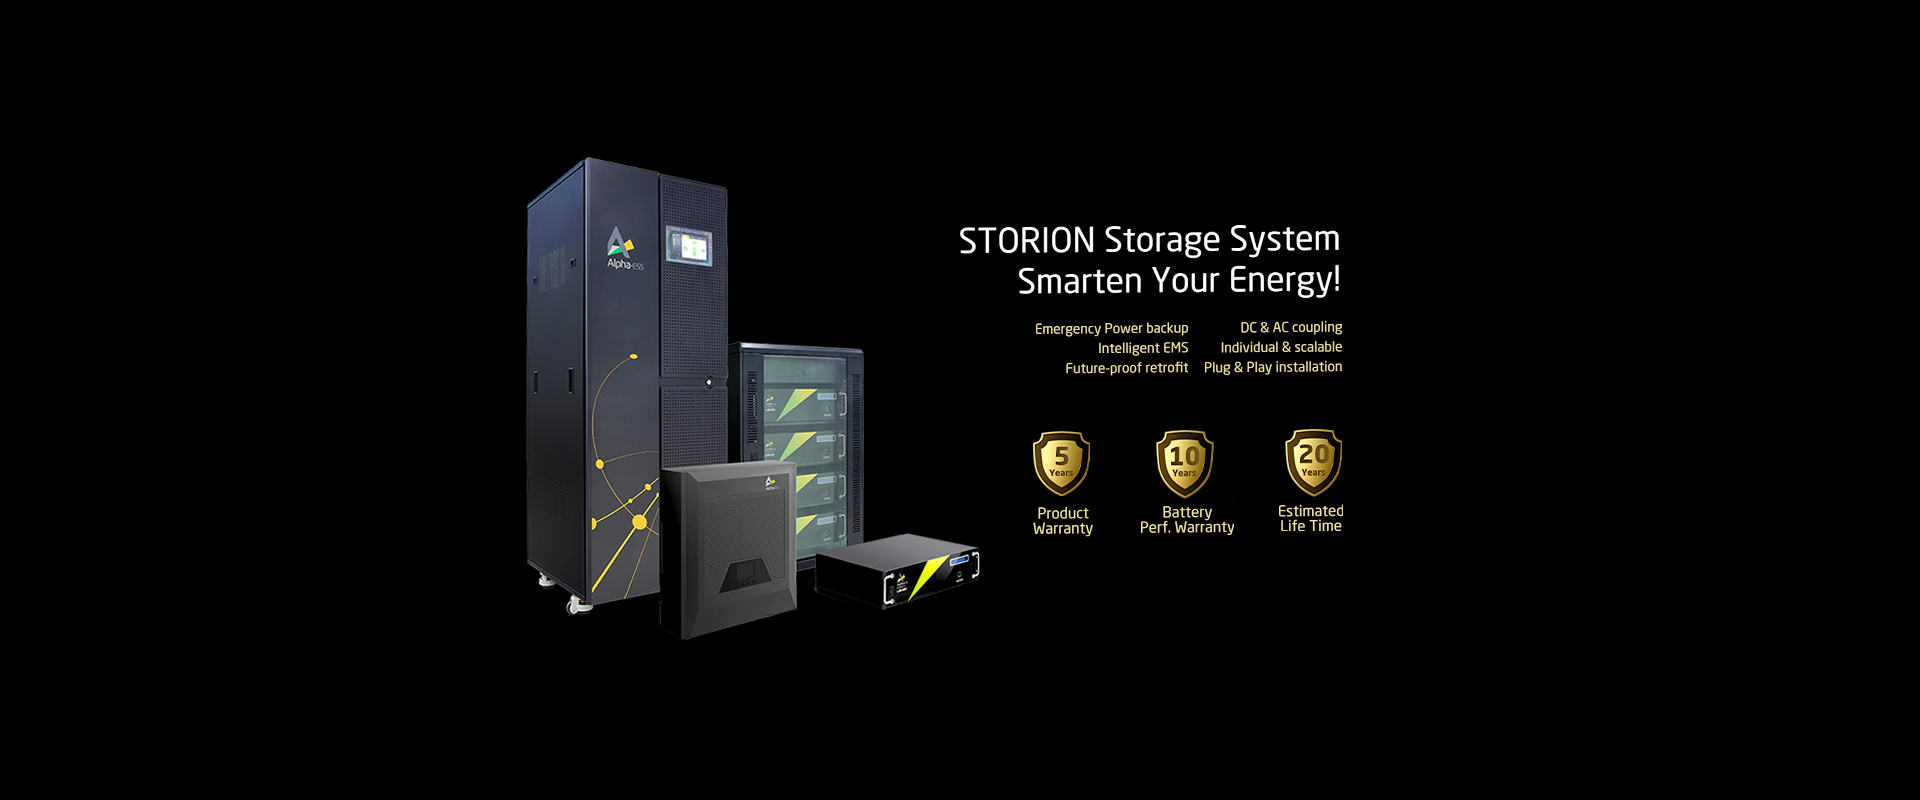
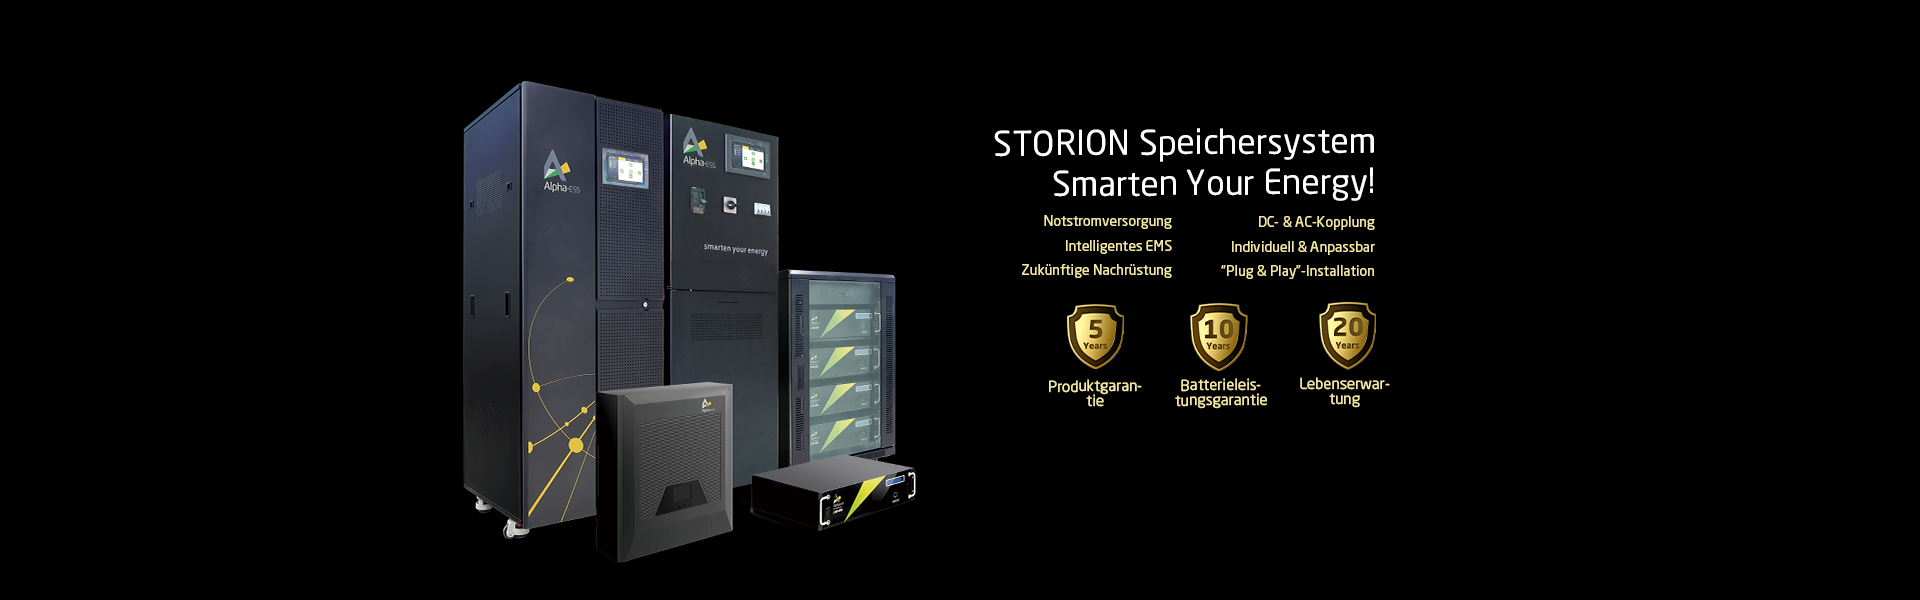
small fixs

Changed region(s): [[0.2188, 0.12, 0.5312, 0.93], [0.5, 0.21, 0.7188, 0.69]]

diff --git a/product.html b/product.html
@@ -559,60 +559,60 @@
                     <table class="screen-table">
                         <tbody>
                             <tr class="odd">
-                                <td class="key"><span>Installed Capacity</span></td>
+                                <td class="key"><span>Nennkapazität</span></td>
                                 <td class="value"><span>9.6 kwh (4 x 12v200Ah)</span></td>
                             </tr>
                             <tr>
-                                <td class="key"><span>Battery type</span></td>
+                                <td class="key"><span>Batterietyp</span></td>
                                 <td class="value"><span>Lead Crystal</span></td>
                             </tr>
                             <tr>
-                                <td class="key"><span>Usable Capacity</span></td>
+                                <td class="key"><span>Nutzbare Kapazität</span></td>
                                 <td class="value"><span>4.8 kwh (50% DOD)v</span></td>
                             </tr>
                             <tr class="odd">
-                                <td class="key"><span>Max. Charge Current</span></td>
+                                <td class="key"><span>Max. Ladestrom</span></td>
                                 <td class="value"><span>25 A</span></td>
                             </tr>
                             <tr>
-                                <td class="key"><span>Max. Discharge Current</span></td>
+                                <td class="key"><span>Max. Entladestrom</span></td>
                                 <td class="value"><span>30 A</span></td>
                             </tr>
                             <tr class="odd">
-                                <td class="key"><span>Max. Charge Current (OFF-GRID)</span></td>
+                                <td class="key"><span>Max. Ladestrom (OFF-GRID)</span></td>
                                 <td class="value"><span>25 A</span></td>
                             </tr>
                             <tr>
-                                <td class="key"><span>Max. Discharge Current (OFF-GRID) </span></td>
+                                <td class="key"><span>Max. Entladestrom (OFF-GRID)</span></td>
                                 <td class="value"><span>60 A</span></td>
                             </tr>
                             <tr class="odd">
-                                <td class="key"><span>Max. Discharge Pulse Current (10S)</span></td>
+                                <td class="key"><span>Max. Entladestromimpuls (10S)</span></td>
                                 <td class="value"><span>2000 A</span></td>
                             </tr>
                             <tr>
-                                <td class="key"><span>Self-discharge after 90 days</span></td>
+                                <td class="key"><span>Selbstentladung nach 90 Tagen</span></td>
                                 <td class="value"><span>&#60; 10%</span></td>
                             </tr>
                             <tr class="odd">
-                                <td class="key"><span>Operating Temperature Range</span></td>
+                                <td class="key"><span>Betriebstemperatur</span></td>
                                 <td class="value"><span>(-)20°C To 50°C</span></td>
                             </tr>
                             <tr>
-                                <td class="key"><span>Transport Or Storage Temperature Range</span></td>
+                                <td class="key"><span style="width:308px;">Temperaturbereich für Transport und Lagerung</span></td>
                                 <td class="value"><span>(-) 40°C To 60°C</span></td>
                             </tr>
                             <tr class="odd">
-                                <td class="key"><span>Humidity</span></td>
+                                <td class="key"><span>Luftfeuchtigkeit</span></td>
                                 <td class="value"><span>0% - 90%</span></td>
                             </tr>
                             <tr>
-                                <td class="key"><span>Cycle life</span></td>
+                                <td class="key"><span>Ladezyklen</span></td>
                                 <td class="value"><span>≥1800 @50%</span></td>
                             </tr>
                             <tr class="odd">
-                                <td class="key"><span>Warranty</span></td>
-                                <td class="value"><span>5 Years</span></td>
+                                <td class="key"><span>Garantie</span></td>
+                                <td class="value"><span>5 Jahre</span></td>
                             </tr>
                         </tbody>
                     </table>
@@ -775,11 +775,11 @@
             <div class="powerplug"></div>
 
             <ul class="powerplug-description">
-                <li class="powerplug-desc-content"><span class="list"></span><span class="list-desc">Compatible Communication: interface supports both RS485/CAN</span></li>
-                <li class="powerplug-desc-content"><span class="list"></span><span class="list-desc">Advanced BMS design to ensure safety and efficiency</span></li>
-                <li class="powerplug-desc-content"><span class="list"></span><span class="list-desc">Two optional models: M4850 (50Ah) and M4860 (60Ah)</span></li>
-                <li class="powerplug-desc-content"><span class="list"></span><span class="list-desc">Automatic protection and maintenance</span></li>
-                <li class="powerplug-desc-content"><span class="list"></span><span class="list-desc">Premium battery cells LiFePO4</span></li>
+                <li class="powerplug-desc-content"><span class="list"></span><span class="list-desc">Kompatible Kommunikation: Schnittstelle unterstützt beide RS485/CAN</span></li>
+                <li class="powerplug-desc-content"><span class="list"></span><span class="list-desc">Fortschrittliches BMS-Design garantiert Sicherheit und Effizienz</span></li>
+                <li class="powerplug-desc-content"><span class="list"></span><span class="list-desc">Zwei mögliche Modelle: M4850 (50Ah) und M4860 (60Ah)</span></li>
+                <li class="powerplug-desc-content"><span class="list"></span><span class="list-desc">Automatischer Schutz und Wartung</span></li>
+                <li class="powerplug-desc-content"><span class="list"></span><span class="list-desc">Premium-Batteriezellen LiFePO4</span></li>
             </ul>
 
             <div class="powerplug-features">
@@ -793,14 +793,14 @@
                 </div>
                 <div class="feature-all feature-safety">
                     <span class="feature-ico safety-new-ico"></span>
-                    <div class="feature-desc safety-desc">Safety</div>
+                    <div class="feature-desc safety-desc">Sicherheit</div>
                 </div>
                 <div class="feature-all feature-20years">
                     <span class="feature-ico years-ico"></span>
-                    <div class="feature-desc 20years-desc">20 Years Lifetime</div>
+                    <div class="feature-desc 20years-desc">20 Jahre Lebenserwartung</div>
                 </div>
             </div>
-            <a class="learn-more" href="download3.html">Click to download datasheets</a>
+            <a class="learn-more" href="download3.html">HIER DATENBLÄTTER HERUNTERLADEN</a>
         </div>
     </div>
     <div class="content content-3">
@@ -813,9 +813,9 @@
                 <span class="arrow-right-short arrow-ems"></span>
                 <span type="button" class="screen screen-ems" data-toggle="modal" data-target="#ems">EMS</span>
                 <span class="arrow-right-short arrow-inverter"></span>
-                <span type="button" class="screen screen-inverter" data-toggle="modal" data-target="#inverter">Inverter</span>
+                <span type="button" class="screen screen-inverter" data-toggle="modal" data-target="#inverter">WECHSELRICHTER</span>
                 <span class="arrow-right-short arrow-battery"></span>
-                <span type="button" class="screen screen-battery" data-toggle="modal" data-target="#crystal-battery">Battery</span>
+                <span type="button" class="screen screen-battery" data-toggle="modal" data-target="#crystal-battery">Batterie</span>
             </div>
             <ul class="feature">
                 <li>
@@ -862,14 +862,14 @@
                                 </li>
                             </ul>
                             <a class="learn-more" href="download2.html">
-                                Click to download datasheets
+                                HIER DATENBLÄTTER HERUNTERLADEN
                             </a>
                         </div>
                     </div>
                     <div class="content content-4">
                         <div class="content-accessories">
                             <div class="title">
-                                <h2>Zubehör</h2>
+                                <h2><strong>Z</strong>ubehör</h2>
                                 <!-- <span class="divide"></span> -->
                             </div>
                             <div class="left-mixed">
@@ -942,7 +942,7 @@
                 <div class="accessories"></div>
             </div>
             <a class="learn-more" href="download4.html" style="z-index:1000">
-                Click to download datasheets
+                HIER DATENBLÄTTER HERUNTERLADEN
             </a>
         </div>
     </div>

diff --git a/css/product.css b/css/product.css
@@ -242,7 +242,7 @@
 
 .image-feature{
     margin-top:15px;
-    width:440px;
+    width:450px;
 }
 
 .image-feature-icon{
@@ -400,7 +400,7 @@
 .learn-more{
     font-size:14px;
     position:absolute;
-    left : 880px;
+    left : 800px;
     top : 560px;
     float:left;
     letter-spacing: 1px;
@@ -1003,7 +1003,7 @@
 
 .family .screen-inverter{
     top:170px;
-    left:-140px;
+    left:-265px;
 }
 
 .crystal .screen-inverter{
